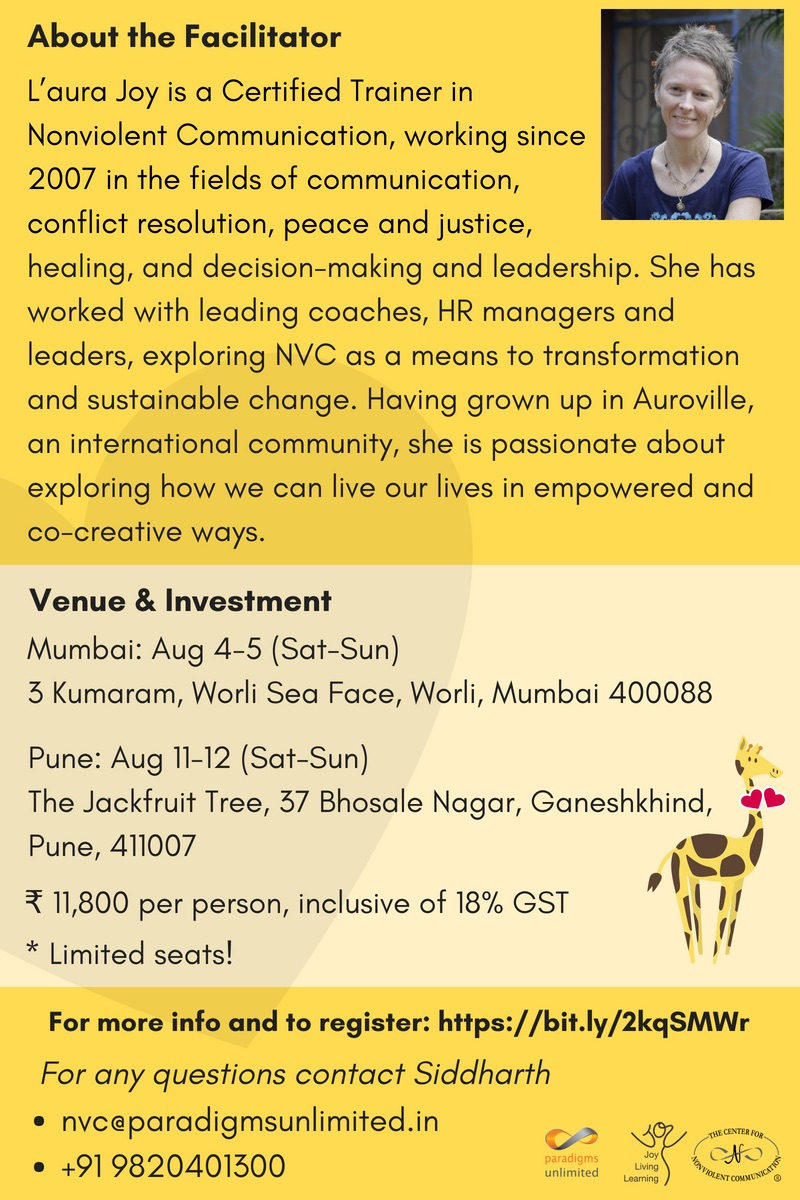
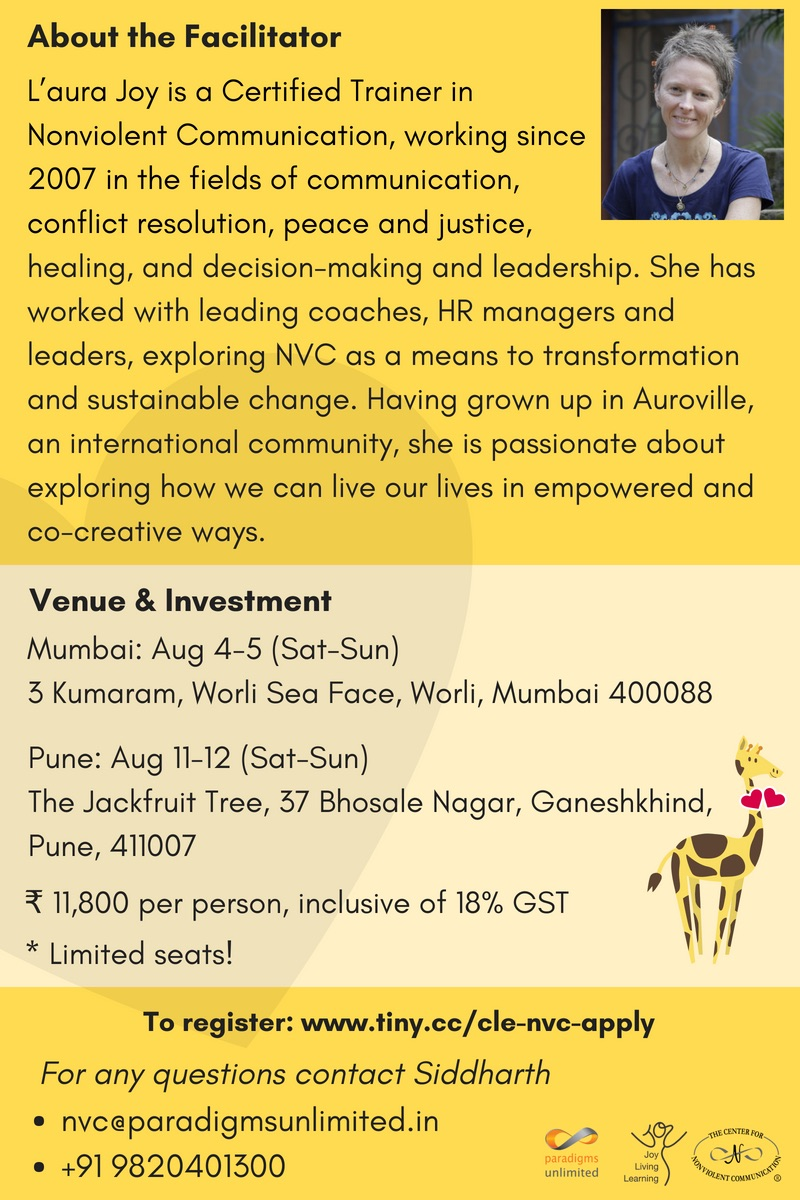
update

Changed region(s): [[0.0625, 0.8325, 0.9375, 0.8633]]

diff --git a/content/events/featured/2018/aug/nvc-mumbai.md b/content/events/featured/2018/aug/nvc-mumbai.md
@@ -27,7 +27,7 @@ tags:
 
 **A path of Nonviolence** offers both a deeply-rooted consciousness of oneness, as well as very practical tools to live this more and more in our daily lives. In re-evaluating some of our habitual and conditioned thinking, we see how much of it is life-alienating and based on a culture of scarcity and separation. We’ll learn the skills to be able express ourselves with more clarity and to hear others’ true (and harmless) message, which in turn leads to more connection between us. When we’re connected as human beings, we’re in our natural state of wanting to give and collaborate with others.
 
-**Limited spaces. Register now!** <br /> Register here: https://bit.ly/2kqSMWr
+**Limited spaces. Register now!** <br /> Register here: [www.tiny.cc/cle-nvc-apply](www.tiny.cc/cle-nvc-apply)
 
 **The workshop balances theory and practice.** We'll develop an understanding of NVC, and learn to embody these principles in our lives, moment-to-moment. Ideal for participants at beginner level (no prior training in NVC), but also suitable for those at intermediate level (5-10 days of NVC training) who are wanting to deepen their NVC.
 

diff --git a/content/events/featured/2018/aug/nvc-pune.md b/content/events/featured/2018/aug/nvc-pune.md
@@ -27,7 +27,7 @@ tags:
 
 **A path of Nonviolence** offers both a deeply-rooted consciousness of oneness, as well as very practical tools to live this more and more in our daily lives. In re-evaluating some of our habitual and conditioned thinking, we see how much of it is life-alienating and based on a culture of scarcity and separation. We’ll learn the skills to be able express ourselves with more clarity and to hear others’ true (and harmless) message, which in turn leads to more connection between us. When we’re connected as human beings, we’re in our natural state of wanting to give and collaborate with others.
 
-**Limited spaces. Register now!** <br /> Register here: https://bit.ly/2kqSMWr
+**Limited spaces. Register now!** <br /> Register here: [www.tiny.cc/cle-nvc-apply](www.tiny.cc/cle-nvc-apply)
 
 **The workshop balances theory and practice.** We'll develop an understanding of NVC, and learn to embody these principles in our lives, moment-to-moment. Ideal for participants at beginner level (no prior training in NVC), but also suitable for those at intermediate level (5-10 days of NVC training) who are wanting to deepen their NVC.
 
